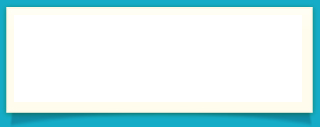
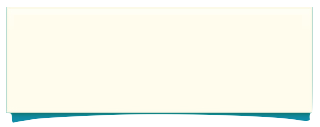
implemented design of footer

Changed region(s): [[0.0, 0.0, 1.0, 1.0]]

diff --git a/skins/vbsg/screen.css b/skins/vbsg/screen.css
@@ -337,7 +337,6 @@ DIV.postit {
   float: right;
   width: 290px;
   height: 100px;
-  background-color: #FFFCED;
   background-image: url( "images/postit.png" );
   font: 16pt Comic Sans MS;
   padding: 15px;
@@ -361,23 +360,15 @@ DIV.embedded.socialbar {
   padding-left: 90px;
 }
 
-/* to review */
-
-.info {
-  border: 1px solid #aaa;
-  background-color: #eee;
-  color: #777;
-  font-size: 75%;
-  padding: 3px;
-  margin: 3px;
-}
-
-.userbar {
-  display: inline-block;
-}
-
-.userbar IMG {
-  float: left;
-  margin-right: 5px;
-  margin-top: 4px;
+DIV#footer {
+  color: white;
+  font: 9pt Verdana;
+  text-transform: uppercase;
+  text-align: center;
+  bottom: 0px;
+  height: 23px;
+  padding-top: 80px;
+  background-image: url( "images/footer.png" );
+  background-position: 0px 100%;
+  background-repeat: repeat-x;
 }

diff --git a/skins/vbsg.php b/skins/vbsg.php
@@ -75,7 +75,9 @@ class VbsgSkin extends Skin {
       </div>
     </div>
   <br clear="both">
-  {$this->footer}
+  </div>
+  <div id="footer">
+{$this->includeFooter}
   </div>
 {$this->insertPopups}
 </body>
@@ -98,6 +100,19 @@ EOT;
         ->can( $this->user )->update( $navigation ) )
     {
       $html .= '<a href="navigation?mode=edit">(edit)</a>';
+    }
+    return $html;
+  }
+  
+  protected function includeFooter() {
+    $footer = Content::get('footer');
+    $html = Breakdown::getConverter()->makeHtml((string)$footer);
+    $html = ereg_replace( '</?p>','', $html );
+    // add link to directly edit the footer page
+    if( AuthorizationManager::getInstance()
+        ->can( $this->user )->update( $footer ) )
+    {
+      $html .= '<a href="footer?mode=edit">(edit)</a>';
     }
     return $html;
   }
@@ -386,16 +401,6 @@ EOT;
 EOT;
   }
 
-  /**
-   * Returns the footer of the page.
-   */
-  protected function footer() {
-    return <<<EOT
-    <hr>
-    a footer
-EOT;
-  }
-  
   protected function insertPopups() {
     return <<<EOT
 <div id="logon-overlay">

diff --git a/lib/MockData.vbsg.php b/lib/MockData.vbsg.php
@@ -78,6 +78,14 @@ EOT
 * [vrijwilligers|vrijwilligers]
 EOT
 ,                            'children' => array() ),
+      'footer' => array( 'cid' => 'footer',
+                         'author' => 'system',
+                         'type'   => 'PageContent',
+                         'time'   => 0,
+                         'data'   => <<<EOT
+&copy; 2011 - Vrije Basisschool van Schriek en Grootlo
+EOT
+,                            'children' => array() ),
       'changes' => array( 'cid'      => 'changes',
                           'author'   => 'system',
                           'type'     => 'PageContent',
